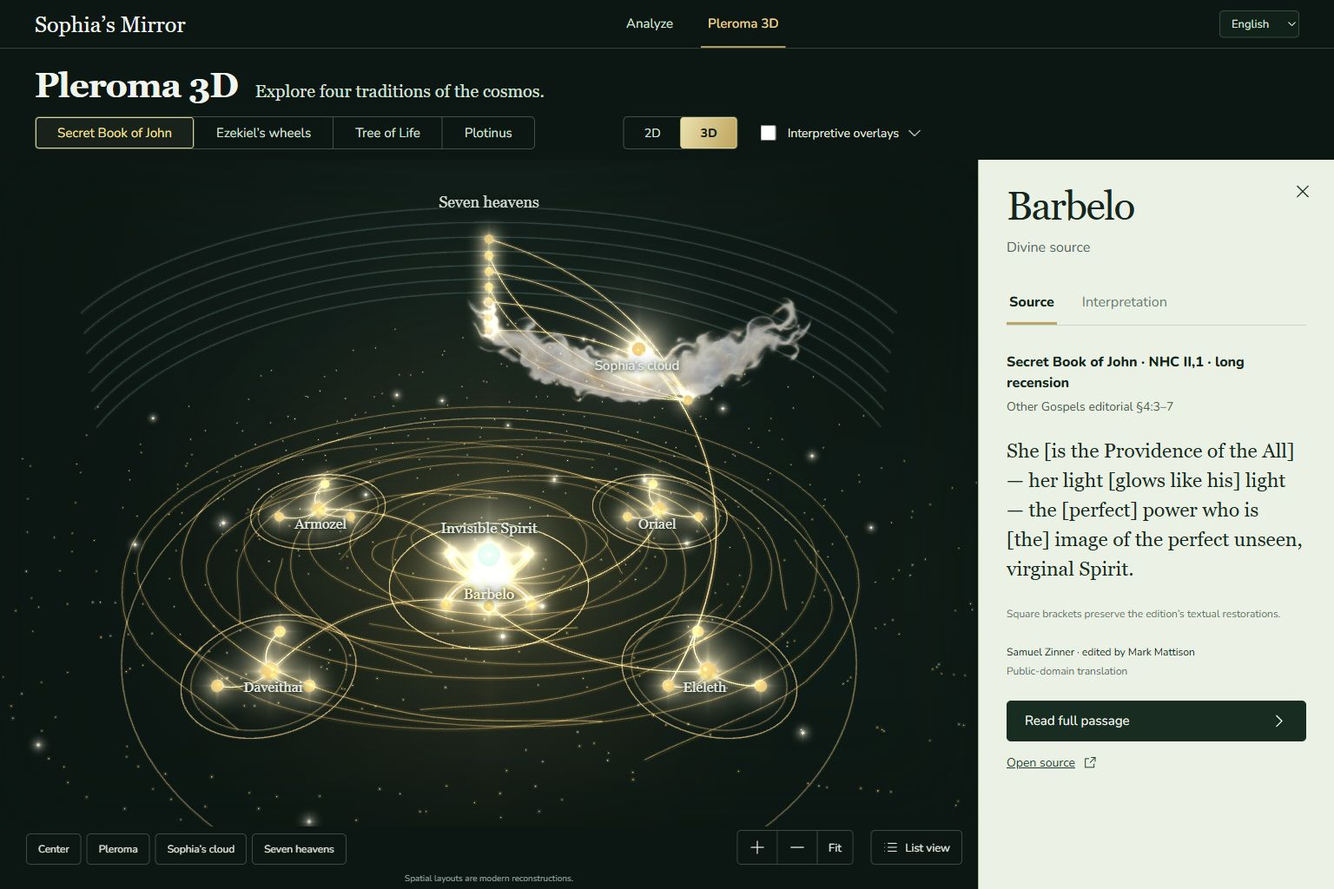
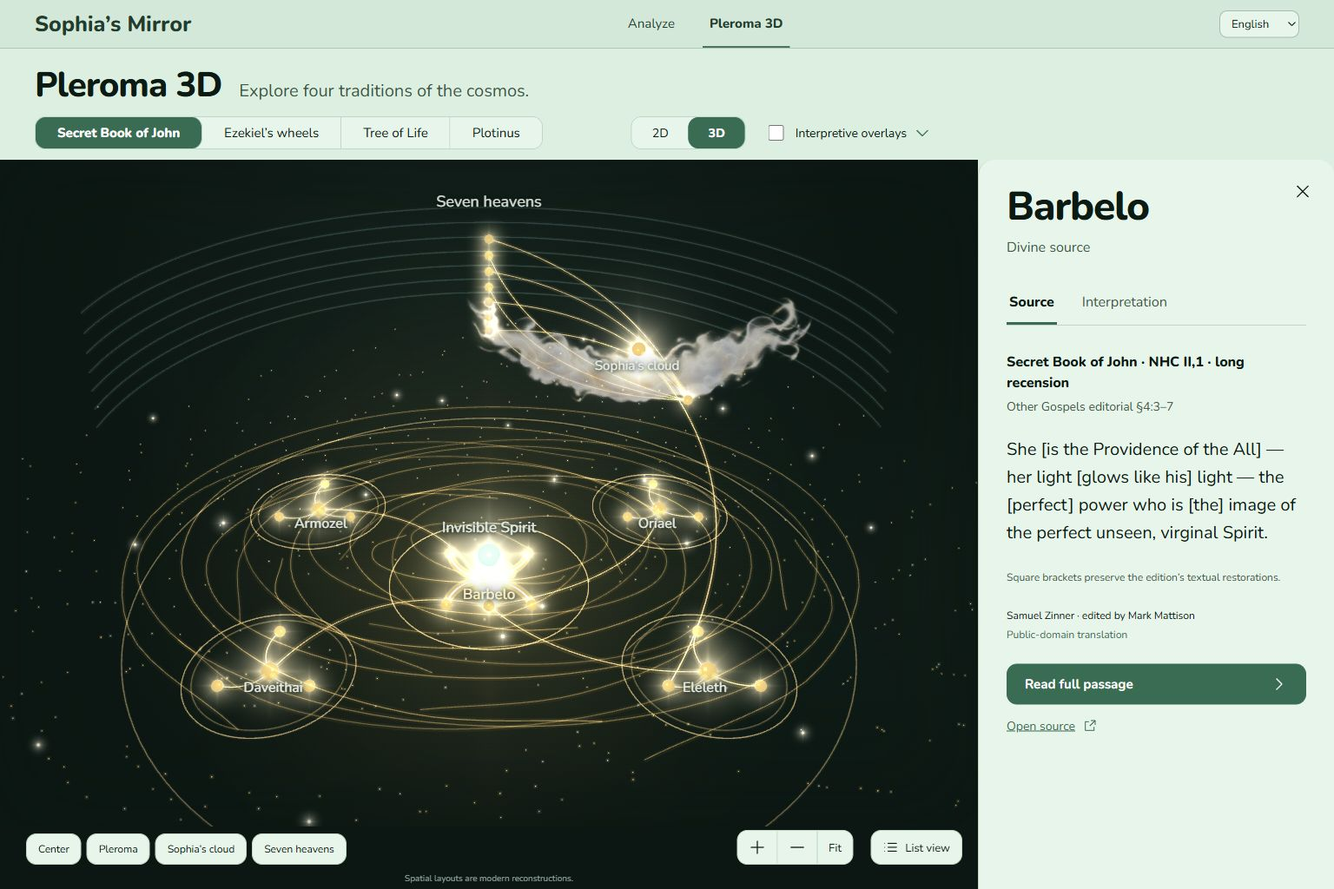
Match explorer UI to mint and Nunito analyzer styling

diff --git a/src/pleroma/explorer.css b/src/pleroma/explorer.css
@@ -1,47 +1,53 @@
 .pleroma {
-  --atlas-bg: #081713;
-  --atlas-surface: #10271e;
-  --atlas-gold: #d5be80;
-  --atlas-label: #c2d8c6;
-  --atlas-paper: #eaf2e4;
-  color: #f0f5ed;
+  --atlas-bg: #d8f0df;
+  --atlas-surface: #061b12;
+  --atlas-accent: #246d50;
+  --atlas-border: #b8d9c4;
+  --atlas-label: #315745;
+  --atlas-paper: #e4f6e9;
+  color: var(--atlas-surface);
   background: var(--atlas-bg);
+  font-family: 'Nunito', Arial, sans-serif;
   min-height: calc(100svh - 56px);
 }
 .pleroma *, .pleroma *::before, .pleroma *::after { box-sizing: border-box; }
 .pleroma button, .pleroma input, .pleroma select { font-family: 'Nunito', Arial, sans-serif; }
 .pleroma button { min-height: 36px; }
 .pleroma button:focus-visible, .pleroma input:focus-visible, .pleroma select:focus-visible, .pleroma a:focus-visible, .pleroma [tabindex]:focus-visible {
-  outline: 2px solid var(--atlas-gold); outline-offset: 4px;
+  outline: 2px solid #2a785b; outline-offset: 4px;
 }
+.pleroma .atlas-three-label:focus-visible { outline: 2px solid #f0d991; outline-offset: -2px; }
 .pleroma-title-row { display: flex; align-items: baseline; gap: 20px; padding: 18px 40px 12px; }
-.pleroma-title-row h1 { margin: 0; font: 600 40px/1.2 Georgia, 'Times New Roman', serif; letter-spacing: -.025em; color: #f0f5ed; }
-.pleroma-title-row > p { margin: 0; font: 20px/1.5 Georgia, 'Times New Roman', serif; color: #d4e2d7; }
+.pleroma-title-row h1 { margin: 0; font: 800 40px/1.2 'Nunito', Arial, sans-serif; letter-spacing: -.025em; color: var(--atlas-surface); }
+.pleroma-title-row > p { margin: 0; font: 20px/1.5 'Nunito', Arial, sans-serif; color: var(--atlas-label); }
 .pleroma-toolbar { display: flex; flex-wrap: wrap; align-items: center; gap: 18px 7%; padding: 0 40px 12px; position: relative; z-index: 5; }
-.tradition-tabs { display: flex; border: 1px solid #385348; border-radius: 5px; overflow: hidden; max-width: 100%; }
-.tradition-tabs button { padding: 7px 25px; border: 0; border-inline-end: 1px solid #385348; color: #d9e2da; background: transparent; font-size: 15px; line-height: 1.4; white-space: nowrap; }
+.tradition-tabs { display: flex; border: 1px solid var(--atlas-border); border-radius: 12px; overflow: hidden; max-width: 100%; background: var(--atlas-paper); }
+.tradition-tabs button { padding: 7px 25px; border: 0; border-inline-end: 1px solid var(--atlas-border); color: var(--atlas-surface); background: var(--atlas-paper); font-size: 15px; line-height: 1.4; white-space: nowrap; }
 .tradition-tabs button:last-child { border-inline-end: 0; }
-.tradition-tabs button[aria-pressed='true'] { color: #ffe39a; background: #d5be8010; box-shadow: inset 0 0 0 1px #e8d492; border-radius: 4px; }
-.tradition-tabs button:hover { background: #d5be8014; }
+.tradition-tabs button[aria-pressed='true'] { color: #fff; background: var(--atlas-accent); box-shadow: inset 0 0 0 1px var(--atlas-accent); border-radius: 12px; font-weight: 800; }
+.tradition-tabs button:hover { background: #cce8d6; }
+.tradition-tabs button[aria-pressed='true']:hover { background: #1c5b41; }
+.tradition-tabs button:focus-visible, .dimension-switch button:focus-visible { outline-offset: -4px; }
+.tradition-tabs button[aria-pressed='true']:focus-visible, .dimension-switch button[aria-pressed='true']:focus-visible { outline-color: #fff; }
 .pleroma-display-controls { display: flex; align-items: center; gap: 22px; }
-.dimension-switch { display: flex; border: 1px solid #385348; border-radius: 5px; overflow: hidden; }
-.dimension-switch button { min-width: 65px; color: #dbe5dd; border: 0; background: transparent; font-size: 14px; padding: 7px 18px; }
-.dimension-switch button[aria-pressed='true'] { color: #152319; background: linear-gradient(110deg, #eee1a9, #c3a253); box-shadow: inset 0 0 0 1px #e8d492; border-radius: 4px; font-weight: 800; }
+.dimension-switch { display: flex; border: 1px solid var(--atlas-border); border-radius: 12px; overflow: hidden; background: var(--atlas-paper); }
+.dimension-switch button { min-width: 65px; color: var(--atlas-surface); border: 0; background: var(--atlas-paper); font-size: 14px; padding: 7px 18px; }
+.dimension-switch button[aria-pressed='true'] { color: #fff; background: var(--atlas-accent); box-shadow: inset 0 0 0 1px var(--atlas-accent); border-radius: 12px; font-weight: 800; }
 .overlay-control { position: relative; display: flex; align-items: center; gap: 3px; }
-.overlay-toggle { display: flex; align-items: center; gap: 10px; color: #e2e9df; font-size: 14px; cursor: pointer; min-height: 36px; }
-.overlay-toggle input, .overlay-options input { width: 18px; height: 18px; accent-color: var(--atlas-gold); cursor: pointer; }
-.overlay-menu-button { color: #b5cbbd; width: 30px; }
-.pleroma .icon-button { display: inline-flex; align-items: center; justify-content: center; padding: 8px; border: 0; border-radius: 4px; background: transparent; }
+.overlay-toggle { display: flex; align-items: center; gap: 10px; color: var(--atlas-surface); font-size: 14px; cursor: pointer; min-height: 36px; }
+.overlay-toggle input, .overlay-options input { width: 18px; height: 18px; accent-color: var(--atlas-accent); cursor: pointer; }
+.overlay-menu-button { color: var(--atlas-accent); width: 30px; }
+.pleroma .icon-button { display: inline-flex; align-items: center; justify-content: center; padding: 8px; border: 0; border-radius: 12px; background: transparent; }
 .pleroma svg { overflow: visible; }
 .icon-button svg, .camera-controls svg, .list-view-button svg, .open-source svg, .passage-button svg { width: 21px; height: 21px; flex-shrink: 0; }
-.overlay-options { position: absolute; inset-inline-end: 0; top: calc(100% + 12px); width: min(350px, calc(100vw - 36px)); padding: 20px; border: 1px solid #6c6843; border-radius: 8px; color: #e2e9df; background: #10271ef7; box-shadow: 0 18px 50px #0008; margin: 0; }
-.overlay-options legend { float: inline-start; width: 100%; padding: 0 0 14px; font: 20px Georgia, serif; color: #efdea6; }
+.overlay-options { position: absolute; inset-inline-end: 0; top: calc(100% + 12px); width: min(350px, calc(100vw - 36px)); padding: 20px; border: 1px solid var(--atlas-border); border-radius: 18px; color: var(--atlas-surface); background: var(--atlas-paper); box-shadow: 0 18px 50px #123e2526; margin: 0; }
+.overlay-options legend { float: inline-start; width: 100%; padding: 0 0 14px; font: 800 20px 'Nunito', Arial, sans-serif; color: var(--atlas-surface); }
 .overlay-options label { clear: both; display: flex; align-items: center; gap: 9px; font-size: 15px; line-height: 1.4; cursor: pointer; }
-.overlay-options p { margin: 7px 0 20px; font-size: 13px; color: #bdcfc2; line-height: 1.65; }
+.overlay-options p { margin: 7px 0 20px; font-size: 13px; color: var(--atlas-label); line-height: 1.65; }
 .overlay-options p:last-child { margin-bottom: 0; }
 .pleroma-workspace { display: grid; grid-template-columns: minmax(0, 1fr); min-height: calc(100svh - 184px); }
 .pleroma-workspace.has-inspector { grid-template-columns: minmax(0, 1fr) clamp(330px, 27%, 410px); }
-.pleroma-canvas { position: relative; height: calc(100svh - 184px); min-height: 650px; min-width: 0; isolation: isolate; overflow: hidden; }
+.pleroma-canvas { position: relative; height: calc(100svh - 184px); min-height: 650px; min-width: 0; isolation: isolate; overflow: hidden; background: #081713; }
 .atlas-renderer { position: absolute; inset: 0 0 72px; animation: atlas-arrival .7s ease-out both; }
 .atlas-renderer > svg, .atlas-renderer > div { width: 100%; height: 100%; }
 .atlas-renderer canvas { display: block; outline-offset: -5px; }
@@ -49,56 +55,62 @@
 .canvas-bottom-bar { position: absolute; bottom: 28px; inset-inline: 30px 18px; display: flex; align-items: end; justify-content: space-between; gap: 12px; z-index: 3; pointer-events: none; }
 .canvas-bottom-bar > * { pointer-events: auto; }
 .layer-navigation { display: flex; flex-wrap: wrap; gap: 6px; max-width: 58%; }
-.layer-navigation button, .camera-controls button, .list-view-button { border: 1px solid #354d41; color: #e4eadf; background: #081713bf; font-size: 12px; border-radius: 5px; padding: 6px 13px; }
-.layer-navigation button[aria-pressed='true'] { color: #f5d890; border-color: #a38e52; background: #233325c9; }
-.layer-navigation button:hover, .camera-controls button:hover, .list-view-button:hover { border-color: #a38e52; }
+.layer-navigation button, .camera-controls button, .list-view-button { border: 1px solid var(--atlas-border); color: var(--atlas-surface); background: var(--atlas-paper); font-size: 12px; border-radius: 12px; padding: 6px 13px; }
+.layer-navigation button[aria-pressed='true'] { color: #fff; border-color: var(--atlas-accent); background: var(--atlas-accent); }
+.layer-navigation button:hover, .camera-controls button:hover, .list-view-button:hover { border-color: #78aa8c; background: #cce8d6; }
+.layer-navigation button[aria-pressed='true']:hover { background: #1c5b41; }
+.pleroma-canvas .layer-navigation button:focus-visible, .pleroma-canvas .camera-controls button:focus-visible, .pleroma-canvas .list-view-button:focus-visible { outline-color: #effbf2; }
 .camera-and-list { display: flex; gap: 20px; flex-shrink: 0; }
-.camera-controls { display: flex; border: 1px solid #354d41; border-radius: 5px; overflow: hidden; background: #081713d9; }
-.camera-controls button { border: 0; border-inline-end: 1px solid #354d41; border-radius: 0; min-width: 40px; min-height: 38px; display: inline-flex; align-items: center; justify-content: center; padding: 5px 12px; font-size: 13px; }
+.camera-controls { display: flex; border: 1px solid var(--atlas-border); border-radius: 12px; overflow: hidden; background: var(--atlas-paper); }
+.camera-controls button { border: 0; border-inline-end: 1px solid var(--atlas-border); border-radius: 0; min-width: 40px; min-height: 38px; display: inline-flex; align-items: center; justify-content: center; padding: 5px 12px; font-size: 13px; }
 .camera-controls button:last-child { border-inline-end: 0; }
+.camera-controls:focus-within { outline: 2px solid #effbf2; outline-offset: 4px; }
+.pleroma-canvas .camera-controls button:focus-visible { outline-color: #2a785b; outline-offset: -4px; }
 .camera-controls button:disabled { opacity: .4; cursor: default; }
 .list-view-button { display: flex; align-items: center; gap: 8px; min-height: 40px; font-size: 13px; }
 .list-view-button svg { width: 18px; }
 .spatial-note { position: absolute; bottom: 5px; inset-inline: 18px; margin: 0; color: #8eaaa0; text-align: center; font-size: 10px; line-height: 1.4; pointer-events: none; }
-.inspector-holder { min-width: 0; z-index: 2; background: var(--atlas-paper); border-inline-start: 1px solid #9db8a5; max-height: calc(100svh - 184px); overflow-y: auto; }
+.inspector-holder { min-width: 0; z-index: 2; background: var(--atlas-paper); border-inline-start: 1px solid var(--atlas-border); border-start-start-radius: 18px; border-start-end-radius: 18px; max-height: calc(100svh - 184px); overflow-y: auto; }
 .pleroma-inspector { min-height: 100%; padding: 28px 32px 38px; color: var(--atlas-surface); }
 .inspector-heading { display: flex; align-items: start; justify-content: space-between; gap: 8px; }
-.inspector-heading h2 { margin: 0 0 10px; font: 500 46px/1.1 Georgia, 'Times New Roman', serif; letter-spacing: -.035em; overflow-wrap: anywhere; }
+.inspector-heading h2 { margin: 0 0 10px; font: 800 46px/1.1 'Nunito', Arial, sans-serif; letter-spacing: -.025em; overflow-wrap: anywhere; }
 .inspector-heading h2:focus { outline: none; }
-.inspector-heading p { font-size: 16px; line-height: 1.5; color: #49645a; margin: 0; }
-.inspector-close { color: #173329; margin: -10px -16px 0 0; min-width: 40px; min-height: 40px; }
+.inspector-heading p { font-size: 16px; line-height: 1.5; color: var(--atlas-label); margin: 0; }
+.inspector-close { color: var(--atlas-surface); margin: -10px -16px 0 0; min-width: 40px; min-height: 40px; }
 [dir='rtl'] .inspector-close { margin: -10px 0 0 -16px; }
-.inspector-tabs { display: flex; margin-top: 28px; border-bottom: 1px solid #c9d6c7; gap: 26px; }
-.inspector-tabs button { border: 0; border-bottom: 3px solid transparent; background: transparent; padding: 12px 3px 13px; color: #637b70; font-size: 16px; }
-.inspector-tabs button[aria-selected='true'] { border-color: #bda460; color: #10271e; font-weight: 800; }
+.inspector-tabs { display: flex; margin-top: 28px; border-bottom: 1px solid var(--atlas-border); gap: 26px; }
+.inspector-tabs button { border: 0; border-bottom: 3px solid transparent; background: transparent; padding: 12px 3px 13px; color: var(--atlas-label); font-size: 16px; }
+.inspector-tabs button[aria-selected='true'] { border-color: var(--atlas-accent); color: var(--atlas-surface); font-weight: 800; }
 .source-title { margin: 30px 0 4px; font-size: 16px; font-weight: 800; line-height: 1.5; }
-.source-reference { margin: 0 0 22px; color: #3e594d; font-size: 14px; line-height: 1.6; }
-.source-quotation { margin: 0 0 26px; padding: 0; border: 0; background: transparent; color: #142c20; font: 23px/1.48 Georgia, 'Times New Roman', serif; overflow-wrap: anywhere; white-space: pre-line; }
-.source-quotation[dir='rtl'] { font-family: Arial, sans-serif; line-height: 1.9; }
+.source-reference { margin: 0 0 22px; color: var(--atlas-label); font-size: 14px; line-height: 1.6; }
+.source-quotation { margin: 0 0 26px; padding: 0; border: 0; background: transparent; color: var(--atlas-surface); font: 20px/1.6 'Nunito', Arial, sans-serif; overflow-wrap: anywhere; white-space: pre-line; }
+.source-quotation[dir='rtl'] { font-family: 'Nunito', Arial, sans-serif; line-height: 1.9; }
 .source-attribution { margin: 24px 0; font-size: 12px; line-height: 1.6; }
 .source-attribution p { margin: 3px 0; }
-.source-attribution a { color: #536d5d; text-decoration: none; }
+.source-attribution a { color: var(--atlas-accent); text-decoration: none; }
 .source-attribution a:hover { text-decoration: underline; }
-.passage-button { width: 100%; display: flex; justify-content: space-between; align-items: center; gap: 8px; background: #102d21; color: #f1f6eb; border: 1px solid #102d21; border-radius: 5px; min-height: 49px; padding: 12px 20px; font-size: 15px; }
-.passage-button:hover { background: #234d37; }
-.open-source { display: inline-flex; align-items: center; gap: 9px; margin-top: 15px; font-size: 14px; color: #183e2c; }
+.passage-button { width: 100%; display: flex; justify-content: space-between; align-items: center; gap: 8px; background: var(--atlas-accent); color: #fff; border: 1px solid var(--atlas-accent); border-radius: 12px; min-height: 49px; padding: 12px 20px; font-size: 15px; font-weight: 700; }
+.passage-button:hover { background: #1c5b41; }
+.open-source { display: inline-flex; align-items: center; gap: 9px; margin-top: 15px; font-size: 14px; color: var(--atlas-accent); }
 .open-source svg { width: 16px; height: 16px; }
-.source-language-note { margin-top: 22px; font-size: 12px; line-height: 1.65; color: #617365; }
-.inspector-summary { font-size: 16px; line-height: 1.85; color: #2a4838; }
-.editorial-label { margin-top: 28px; color: #526b5b; font-size: 12px; text-transform: uppercase; letter-spacing: .08em; }
-.inspector-interpretive-note { padding: 12px 0; margin: 15px 0 0; border-bottom: 1px solid #ccd7c8; font-size: 12px; line-height: 1.7; color: #5a6c53; }
+.source-language-note { margin-top: 22px; font-size: 12px; line-height: 1.65; color: var(--atlas-label); }
+.inspector-summary { font-size: 16px; line-height: 1.85; color: var(--atlas-surface); }
+.editorial-label { margin-top: 28px; color: var(--atlas-label); font-size: 12px; text-transform: uppercase; letter-spacing: .08em; }
+.inspector-interpretive-note { padding: 12px 0; margin: 15px 0 0; border-bottom: 1px solid var(--atlas-border); font-size: 12px; line-height: 1.7; color: var(--atlas-label); }
 .source-edition-select { display: grid; gap: 6px; margin-top: 24px; font-size: 12px; }
-.source-edition-select select { max-width: 100%; padding: 8px; border: 1px solid #b7c6b3; background: #f3f7ed; border-radius: 4px; color: #183329; }
-.entity-list-panel { position: absolute; inset-inline-start: 24px; top: 18px; bottom: 96px; width: min(300px, calc(100% - 48px)); background: #0f261ff2; border: 1px solid #7d784c; border-radius: 6px; color: #e3eada; box-shadow: 0 20px 50px #0008; z-index: 4; display: flex; flex-direction: column; }
-.entity-list-panel > div { display: flex; align-items: center; justify-content: space-between; padding: 12px 12px 12px 18px; border-bottom: 1px solid #385346; }
-.entity-list-panel h2 { margin: 0; font: 22px Georgia, serif; }
-.entity-list-panel .icon-button { color: #e8e2be; }
+.source-edition-select select { max-width: 100%; padding: 8px; border: 1px solid var(--atlas-border); background: var(--atlas-paper); border-radius: 12px; color: var(--atlas-surface); }
+.entity-list-panel { position: absolute; inset-inline-start: 24px; top: 18px; bottom: 96px; width: min(300px, calc(100% - 48px)); background: var(--atlas-paper); border: 1px solid var(--atlas-border); border-radius: 18px; color: var(--atlas-surface); box-shadow: 0 20px 50px #031b1240; z-index: 4; display: flex; flex-direction: column; }
+.entity-list-panel > div { display: flex; align-items: center; justify-content: space-between; padding: 12px 12px 12px 18px; border-bottom: 1px solid var(--atlas-border); }
+.entity-list-panel h2 { margin: 0; font: 800 22px 'Nunito', Arial, sans-serif; }
+.entity-list-panel .icon-button { color: var(--atlas-surface); }
 .entity-list-panel ul { overflow-y: auto; list-style: none; padding: 8px; margin: 0; }
-.entity-list-panel li button { width: 100%; text-align: start; border: 0; border-radius: 3px; color: #d9e8d7; background: transparent; padding: 9px 12px; font-size: 14px; min-height: 40px; }
-.entity-list-panel li button:hover, .entity-list-panel li button[aria-pressed='true'] { background: #d5be801a; color: #ffe7a0; }
-.entity-kind { display: block; margin-top: 3px; font-size: 11px; color: #b5c8b8; }
-.pleroma-status { padding: 10px 40px; color: #e6d394; background: #183127; margin: 0; font-size: 14px; }
-.mobile-overlay-caption { margin: 0; color: #b9cfc1; font-size: 12px; line-height: 1.5; padding: 0 20px 9px; }
+.entity-list-panel li button { width: 100%; text-align: start; border: 0; border-radius: 12px; color: var(--atlas-surface); background: transparent; padding: 9px 12px; font-size: 14px; min-height: 40px; }
+.entity-list-panel li button:hover { background: #cce8d6; }
+.entity-list-panel li button[aria-pressed='true'] { background: var(--atlas-accent); color: #fff; }
+.entity-kind { display: block; margin-top: 3px; font-size: 11px; color: var(--atlas-label); }
+.entity-list-panel li button[aria-pressed='true'] .entity-kind { color: #effbf2; }
+.pleroma-status { padding: 10px 40px; color: var(--atlas-surface); background: #cce8d6; margin: 0; font-size: 14px; }
+.mobile-overlay-caption { margin: 0; color: var(--atlas-label); font-size: 12px; line-height: 1.5; padding: 0 20px 9px; }
 @keyframes atlas-arrival { from { opacity: 0; transform: scale(.97); } to { opacity: 1; transform: scale(1); } }
 @media (max-width: 1280px) and (min-width: 761px) {
   .pleroma-toolbar { gap: 12px 24px; }
@@ -107,7 +119,7 @@
   .pleroma-toolbar { padding-inline: 28px; }
   .pleroma-inspector { padding: 25px; }
   .inspector-heading h2 { font-size: 40px; }
-  .source-quotation { font-size: 21px; }
+  .source-quotation { font-size: 20px; }
   .canvas-bottom-bar { flex-wrap: wrap; gap: 10px; inset-inline: 18px; }
   .layer-navigation { max-width: 100%; }
   .camera-and-list { margin-inline-start: auto; }
@@ -120,18 +132,18 @@
   .pleroma-title-row h1 { font-size: 37px; }
   .pleroma-title-row > p { margin-top: 7px; font: 16px/1.5 'Nunito', Arial, sans-serif; }
   .pleroma-toolbar { display: block; padding: 0 20px 8px; }
-  .tradition-tabs { display: grid; grid-template-columns: 1fr 1fr; border: 0; border-radius: 0; gap: 8px; overflow: visible; }
-  .tradition-tabs button { border: 1px solid #3e5d4e; border-radius: 7px; white-space: normal; min-height: 44px; padding: 8px 9px; font-size: 13px; }
-  .tradition-tabs button:last-child { border-inline-end: 1px solid #3e5d4e; }
-  .tradition-tabs button[aria-pressed='true'] { border-color: #d5be80; border-radius: 7px; }
+  .tradition-tabs { display: grid; grid-template-columns: 1fr 1fr; border: 0; border-radius: 0; gap: 8px; overflow: visible; background: transparent; }
+  .tradition-tabs button { border: 1px solid var(--atlas-border); border-radius: 12px; white-space: normal; min-height: 44px; padding: 8px 9px; font-size: 13px; }
+  .tradition-tabs button:last-child { border-inline-end: 1px solid var(--atlas-border); }
+  .tradition-tabs button[aria-pressed='true'] { border-color: var(--atlas-accent); border-radius: 12px; }
   .pleroma-display-controls { margin-top: 17px; gap: 16px; justify-content: space-between; }
   .dimension-switch { flex-shrink: 0; }
   .dimension-switch button { min-width: 51px; min-height: 44px; padding: 8px 14px; font-size: 15px; }
   .overlay-toggle { font-size: 13px; line-height: 1.35; gap: 6px; min-height: 44px; }
-  .overlay-toggle input { appearance: none; min-width: 29px; width: 29px; height: 19px; border-radius: 15px; border: 1px solid #8a9d78; background: #283e31; position: relative; margin: 0; }
-  .overlay-toggle input::after { content: ''; position: absolute; left: 2px; top: 2px; width: 13px; height: 13px; border-radius: 50%; background: #b0c1b1; }
-  .overlay-toggle input:checked { background: #c7ae65; border-color: #d5be80; }
-  .overlay-toggle input:checked::after { left: 12px; background: #fffae7; }
+  .overlay-toggle input { appearance: none; min-width: 29px; width: 29px; height: 19px; border-radius: 15px; border: 1px solid #86ae95; background: #b8d9c4; position: relative; margin: 0; }
+  .overlay-toggle input::after { content: ''; position: absolute; left: 2px; top: 2px; width: 13px; height: 13px; border-radius: 50%; background: #fff; }
+  .overlay-toggle input:checked { background: var(--atlas-accent); border-color: var(--atlas-accent); }
+  .overlay-toggle input:checked::after { left: 12px; background: #fff; }
   .overlay-menu-button { padding: 5px !important; width: 24px; min-height: 44px; }
   .overlay-menu-button svg { width: 15px; }
   .overlay-options { top: calc(100% + 7px); padding: 18px; }
@@ -146,7 +158,7 @@
   .camera-controls svg { width: 20px; }
   .list-view-button { min-height: 46px !important; font-size: 13px; gap: 7px; padding: 9px 12px; }
   .spatial-note { bottom: 2px; font-size: 9px; inset-inline: 15px; }
-  .inspector-holder { border: 0; margin: 0 14px 20px; border-radius: 12px; overflow: hidden; max-height: none; }
+  .inspector-holder { border: 0; margin: 0 14px 20px; border-radius: 18px; overflow: hidden; max-height: none; }
   .pleroma-inspector { padding: 25px 23px 30px; min-height: 0; }
   .inspector-heading h2 { font-size: 39px; }
   .inspector-heading p { font-size: 14px; }
@@ -156,7 +168,7 @@
   .inspector-tabs button { min-height: 46px; font-size: 15px; }
   .source-title { margin-top: 23px; font-size: 15px; }
   .source-reference { font-size: 12px; margin-bottom: 18px; }
-  .source-quotation { font-size: 21px; line-height: 1.5; }
+  .source-quotation { font-size: 18px; line-height: 1.6; }
   .source-attribution { font-size: 11px; margin: 20px 0; }
   .source-language-note { font-size: 11px; }
   .passage-button { min-height: 48px; font-size: 14px; }

diff --git a/src/styles.css b/src/styles.css
@@ -37,18 +37,15 @@ button:disabled, input:disabled, textarea:disabled, select:disabled { cursor: wa
 button:focus-visible, input:focus-visible, textarea:focus-visible, select:focus-visible, a:focus-visible, .annotated-source:focus-visible, .finding:focus { outline: 3px solid #2a785b; outline-offset: 3px; }
 a { color: #17664d; overflow-wrap: anywhere; }
 
-.site-nav { display: flex; align-items: center; min-height: 56px; padding: 0 40px; gap: 28px; border-bottom: 1px solid #a8c9b1; color: #183d2c; background: #cee7d7e8; }
+.site-nav { display: flex; align-items: center; min-height: 56px; padding: 0 40px; gap: 28px; border-bottom: 1px solid #a8c9b1; color: #183d2c; background: #cee7d7e8; font-family: 'Nunito', Arial, sans-serif; }
 .site-nav button { border: 0; border-radius: 0; background: transparent; color: inherit; }
-.site-brand { padding: 0; font: 25px/1.3 Georgia, 'Times New Roman', serif; white-space: nowrap; }
+.site-brand { padding: 0; font: 800 25px/1.3 'Nunito', 'Trebuchet MS', sans-serif; white-space: nowrap; }
 .site-nav nav { display: flex; align-self: stretch; margin: 0 auto; gap: 24px; }
 .site-nav nav button { border-bottom: 2px solid transparent; padding: 11px 8px; font-size: 15px; }
 .site-nav nav button[aria-current='page'] { border-color: #3c7758; font-weight: 800; }
-.site-nav.is-pleroma { background: #081713; border-color: #284136; color: #d6e3d8; }
-.site-nav.is-pleroma .site-brand { color: #f0f5ed; }
-.site-nav.is-pleroma nav button[aria-current='page'] { color: #ecd189; border-color: #b59b55; font-weight: 600; }
-.site-language select { font-size: 13px; background: #0c2018; color: #dce8df; border: 1px solid #304d3d; border-radius: 5px; padding: 5px 9px; min-width: 92px; }
-body[data-section='pleroma'] { background: #081713; }
-.explorer-loading { padding: 100px 20px; margin: 0; color: #e4d49f; background: #081713; text-align: center; min-height: calc(100svh - 56px); }
+.site-language select { font-size: 13px; background: #e4f6e9; color: #061b12; border: 1px solid #9fbead; border-radius: 9px; padding: 5px 9px; min-width: 92px; }
+body[data-section='pleroma'] { background: #d8f0df; }
+.explorer-loading { padding: 100px 20px; margin: 0; color: #254638; background: #d8f0df; text-align: center; min-height: calc(100svh - 56px); }
 
 .shell { width: min(1060px, calc(100% - 48px)); margin: 0 auto; padding: 18px 0 48px; }
 .masthead { display: flex; justify-content: space-between; align-items: center; gap: 28px; margin-bottom: 20px; padding: 22px 24px; border: 1px solid #b8d9c4; border-radius: 26px; background: rgb(203 232 213 / 50%); backdrop-filter: blur(18px); }

diff --git a/src/pleroma/atlas.css b/src/pleroma/atlas.css
@@ -19,9 +19,9 @@
 .atlas-three-label { position:absolute;top:0;left:0;pointer-events:auto;border:0!important;background:transparent!important;box-shadow:none!important;color:#e6eee5!important;font:500 15px/1.25 'Nunito','Trebuchet MS',sans-serif!important;padding:7px 10px!important;white-space:nowrap;text-shadow:0 1px 4px #03110b,0 0 12px #03110b;cursor:pointer;transform-origin:center;min-height:32px; }
 .atlas-three-label.is-selected { color:#fff4c9!important; }
 .atlas-three-label:focus-visible { outline:2px solid #f0d991;outline-offset:-2px; }
-.atlas-three-label[data-kind='root'] { font-family:Georgia,'Times New Roman',serif!important;font-size:17px!important; }
-.atlas-three-label[data-kind='luminary'] { font-family:Georgia,'Times New Roman',serif!important;font-size:16px!important; }
-.atlas-three-realm-label { pointer-events:none;font-family:Georgia,'Times New Roman',serif!important;font-size:18px!important; }
+.atlas-three-label[data-kind='root'] { font-family:'Nunito','Trebuchet MS',sans-serif!important;font-size:17px!important; }
+.atlas-three-label[data-kind='luminary'] { font-family:'Nunito','Trebuchet MS',sans-serif!important;font-size:16px!important; }
+.atlas-three-realm-label { pointer-events:none;font-family:'Nunito','Trebuchet MS',sans-serif!important;font-size:18px!important; }
 .atlas-label-gloss { display:block;font-size:11px;font-weight:400;margin-top:3px;color:#bad0c2; }
 .atlas-three-fallback { display:grid;place-items:center;min-height:300px;color:#d5ddcf; }
 @keyframes atlas-burst { 0% {opacity:0;transform:scale(.2)} 20% {opacity:.95} 100% {opacity:0;transform:scale(1.55)} }

diff --git a/docs/pleroma-validation.md b/docs/pleroma-validation.md
@@ -43,26 +43,49 @@ resources, deployment settings, or billing were changed for this feature.
 - The production bundle was served with the exact existing Vercel CSP/security
   headers. Both renderers and source controls work without changing the CSP.
 
-## Visual comparison with the approved concepts
+## Visual comparison and approved UI revision
 
-The accepted desktop and mobile images were compared with local renders in the
-same review pass. The final screenshots are in `docs/images`.
+The accepted desktop and mobile concepts informed the visualization. The later
+approved restyle uses the main-branch analyzer's mint/Nunito UI while retaining
+the canvas and scene treatment. The refreshed screenshots are in `docs/images`.
 
 | Reference detail | Implementation and correction |
 | --- | --- |
-| Deep green, gold, and sage atmosphere | Preserved palette; strengthened static glints and curved gold trails after the first render was too sparse. |
+| Mint UI and Nunito, matching the analyzer | Mint page, toolbar, menus, inspector, and canvas controls; green selection states; rounded surfaces; Nunito headings and quotations. |
+| Deep green, gold, and sage scene | Canvas explicitly retains #081713; existing geometry, glints, filaments, lighting, cloud texture, and effects are preserved. |
 | Luminous curved connections | Cubic Bézier filaments in SVG and Three.js, including every Tree connector. No straight node spokes. |
 | Open cosmology canvas | Interactive geometry supplies nodes, rings, labels, and source selection; only the separate cloud is raster imagery. |
-| Pale reading inspector | Opaque sage panel, serif quotation, edition, reference, translator, reuse link, expandable context, external source link. |
+| Readable source inspector | Opaque mint panel, comfortable Nunito quotation, edition, reference, translator, reuse link, expandable context, external source link. |
 | Mobile flow | Two-by-two tradition choices, large touch controls, and a source panel below the map; fixed clipped outer labels and wrapped Tree glosses. |
 | Motion | One finite selection/change burst and traveling sparks; static resting illumination, no automatic rotation, reduced-motion support. |
 
 Intentional differences: the default selection is Barbelo with overlays off;
 the mobile screenshot demonstrates the optional paired view. Source data follow
-the approved witnesses rather than decorative labels in the concept. Full
-provenance, restoration notices, the layer row, overlay options, and accessible
+the approved witnesses rather than decorative labels in the concept. Mint UI
+and Nunito supersede the original concept's dark/gold controls and serif type.
+Full provenance, restoration notices, the layer row, overlay options, and accessible
 List view require more vertical space than the concept's abbreviated mobile
 reading panel. Tradition changes fade scenes instead of equating their figures.
+
+### Mint/Nunito restyle verification
+
+- Compared the rendered analyzer and `origin/main`'s palette/type rules with
+  the explorer at desktop, 390px, and 320px. Updated desktop/mobile screenshots
+  show green selections, rounded mint controls, and the Nunito reading panel.
+- Both renderer components, geometry, source catalog, and dependencies are
+  byte-identical to the pre-restyle commit. Renderer CSS changes only three
+  font-family declarations. Its dimensions, colors, atmosphere, and effects
+  remain unchanged; the canvas background computes to `rgb(8, 23, 19)`.
+- Browser checks exercised all four scenes in both modes, overlays, source
+  expansion, List selection, keyboard tabs/focus, zoom/Fit, and retained analyzer
+  input. Hebrew retained SVG coordinates; Russian and Aramaic source text were
+  checked at narrow widths. Hebrew visual checks used viewport captures.
+- No page overflow or framework error overlay was observed. Browser console
+  checks found only the existing Three.js Clock deprecation warning.
+- UI text contrast: dark ink on mint 15.9:1, secondary text 7.23:1, and white
+  on selected green 6.22:1. Page focus uses green; canvas controls and diagram
+  labels retain bright focus indicators against the dark background.
+- The full 121-test suite, production build, and whitespace checks passed again.
 
 ## Practical limits
 

diff --git a/docs/pleroma-design.md b/docs/pleroma-design.md
@@ -6,17 +6,25 @@ Approved visual references:
 - Mobile: exec-3e43c6de-86bf-4679-b632-6d1e6dce148c.png
 
 The reference files are in the Codex generated_images folder for this chat.
-They define visual treatment, not authoritative source text or entity topology.
-Source records and deterministic layouts supply the actual interactive diagrams.
+They define the visualization treatment, not authoritative source text or entity
+topology. The subsequent approved UI revision matches the main-branch analyzer:
+mint surfaces and Nunito throughout replace the concepts' dark/gold chrome and
+serif typography. Source records and deterministic layouts supply the diagrams.
 
 ## Visual system
 
-Deep evergreen canvas #081713; raised surfaces #10271e; antique gold #d5be80;
-sage labels #c2d8c6; pale sage reading panel #eaf2e4 with ink #10271e.
-Use local Nunito for controls and Georgia/system serif for headings and quotations.
-The canvas is open space with curved luminous connections, a radiant center,
-finite selection bursts, restrained static stars and a separately generated cloud.
-The reading inspector remains calm and opaque. No card grids or marketing sections.
+UI surfaces use the analyzer's mint #d8f0df and #e4f6e9, borders #b8d9c4,
+ink #061b12, and green accent #246d50. Rounded controls, menus, and reading
+surfaces follow the analyzer's visual language. Use local Nunito throughout,
+including headings, source quotations, and diagram labels, with sans-serif
+fallbacks for glyphs outside the bundled font. The reading inspector is opaque.
+
+The visualization retains its explicit deep evergreen #081713 canvas, existing
+gold illumination, sage labels, curved luminous connections, radiant centers,
+finite selection bursts, static stars, and separately generated cloud. Styling
+the surrounding page must not tint the transparent WebGL canvas. Diagram-label
+changes are limited to font family; their sizes, colors, anchors, and shadows
+remain unchanged. No card grids or marketing sections are added.
 
 Desktop: quiet 56px brand/navigation header, title and one tradition toolbar,
 large canvas and a roughly 360–410px reading inspector. The inspector can close.
@@ -51,7 +59,8 @@ Geometry and controls are code-native; the screenshots are never used as UI.
 
 ## Review requirements
 
-Compare approved concepts with desktop and mobile renders before handoff:
+Compare the main-branch analyzer's UI palette and typography with desktop and
+mobile renders, and compare the visualization with its pre-restyle screenshot:
 layout, typography, palette, curved geometry/light treatment, inspector/source
 readability, control spacing, responsive flow and RTL. Document concrete fixes
 and intentional source-data differences in the PR validation notes.
